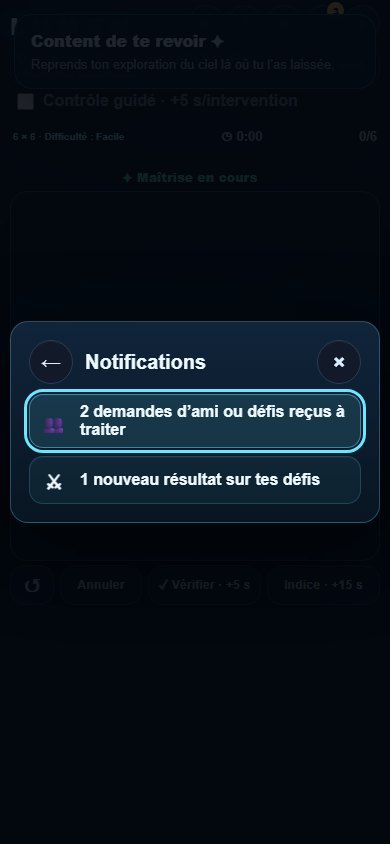
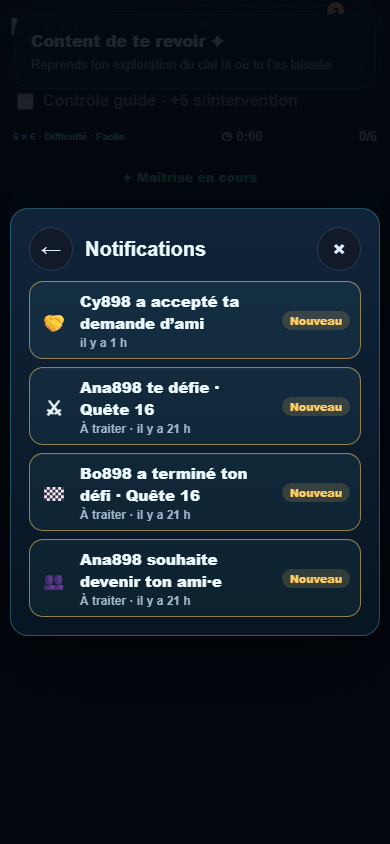
feat(#898): sober in-app social notifications (Lot 4 PR B)
The « Notifications » row of the Espace social now lists, newest first:
friend request received, friend challenge received, result available on my
challenge, friend request accepted. Each opens its screen directly (Mes
amis, the one-shot challenge link, Mes défis focused on the challenge).

- Derived from the existing reads (friend list, friend inbox, Mes défis):
  no migration, no new RPC, no push, no toast, nothing during a grid.
- Read state per account and device (lumenSocialNotificationsV1:<id>):
  « Nouveau » until viewed, « À traiter » while an action is pending; ids of
  vanished items forgotten; acceptances kept 30 days while still friends;
  first observation is a silent baseline.
- Global badge = the validated #35 counters (reused, not recoded) + unseen
  acceptances only: no double count.
- Offline keeps the last list with a notice; `online` and visibility
  refresh it (throttled); account switch never inherits another count.
- Copy in the social.* FR/EN catalogue (i18n-audit reviewed).

Changed region(s): [[0.0, 0.2464, 0.9846, 0.7393]]

diff --git a/index.html b/index.html
@@ -154,7 +154,7 @@
 <div id="challengeNameModal" class="social-overlay" hidden role="dialog" aria-modal="true" aria-labelledby="challengeNameTitle"><div class="social-card"><h2 id="challengeNameTitle">Comment doit-on t’appeler ?</h2><p>Un prénom ou pseudo suffit. Il sera visible dans les résultats du défi.</p><input id="challengeNameInput" maxlength="24" autocomplete="nickname" placeholder="Prénom ou pseudo"><div id="challengeNameError" class="social-error"></div><button id="challengeNameSave" class="primary" type="button">Continuer</button><button id="challengeNameCancel" type="button">Annuler</button></div></div>
 <div id="challengeShareModal" class="social-overlay" hidden role="dialog" aria-modal="true" aria-labelledby="challengeShareTitle"><div class="social-card"><h2 id="challengeShareTitle">Défie un ami</h2><p id="challengeShareCopy"></p><div id="challengeQr" role="img" aria-label="QR code du défi"></div><div class="social-actions"><button id="challengeNativeShare" class="primary" type="button">Partager</button><button id="challengeCopyLink" type="button">Copier le lien</button><button id="challengeSendFriend" type="button" hidden>Envoyer à un ami</button><button id="challengeShareClose" type="button">Fermer</button></div></div></div>
 <div id="challengeResultModal" class="social-overlay" hidden role="dialog" aria-modal="true" aria-labelledby="challengeResultTitle"><div class="social-card"><div class="social-icon">✦</div><h2 id="challengeResultTitle">Défi terminé</h2><div id="challengeResultBody"></div><div class="social-actions"><button id="challengeResultReshare" type="button" hidden>↗ Défier quelqu’un avec ma performance</button><button id="challengeResultHome" class="primary" type="button">Continuer sur Lumen</button></div></div></div>
-<div id="socialHub" class="social-overlay social-hub" hidden role="dialog" aria-modal="true" aria-labelledby="socialHubTitle"><div class="social-card social-card-wide social-hub-card"><div class="social-head"><button id="socialHubBack" class="social-hub-back" type="button" data-game-label="social.back" hidden>←</button><h2 id="socialHubTitle" data-game-text="social.title"></h2><button id="socialHubClose" class="social-hub-close" type="button" data-game-label="social.close">×</button></div><nav id="socialHubMenu" class="social-hub-menu" data-game-label="social.nav"><button id="socialDaily" class="social-hub-item" type="button" hidden><span class="social-hub-icon" aria-hidden="true">🏆</span><span class="social-hub-label"><strong data-game-text="social.daily"></strong><small id="socialDailyState"></small></span></button><button id="openMyChallenges" class="social-hub-item" type="button" data-social-leave><span class="social-hub-icon" aria-hidden="true">⚔</span><span class="social-hub-label"><strong data-game-text="social.myChallenges"></strong><small data-game-text="social.myChallengesHint"></small></span><span id="challengeUnreadBadge" class="social-count" hidden></span></button><button id="socialRankings" class="social-hub-item" type="button"><span class="social-hub-icon" aria-hidden="true">🏅</span><span class="social-hub-label"><strong data-game-text="social.rankings"></strong><small data-game-text="social.rankingsHint"></small></span></button><button id="openFriends" class="social-hub-item" type="button" data-social-leave><span class="social-hub-icon" aria-hidden="true">👥</span><span class="social-hub-label"><strong data-game-text="social.friends"></strong><small data-game-text="social.friendsHint"></small></span><span id="friendsBadge" class="social-count" hidden></span></button><button id="socialNotifications" class="social-hub-item" type="button"><span class="social-hub-icon" aria-hidden="true">🔔</span><span class="social-hub-label"><strong data-game-text="social.notifications"></strong><small data-game-text="social.notificationsHint"></small></span><span id="socialNotificationsCount" class="social-count" hidden></span></button><button id="inviteLumenFriends" class="social-hub-item" type="button"><span class="social-hub-icon" aria-hidden="true">✉</span><span class="social-hub-label"><strong data-game-text="social.invite"></strong><small data-game-text="social.inviteHint"></small></span></button></nav><section id="socialRankingsView" class="social-hub-view" hidden aria-labelledby="socialHubTitle"><div class="social-hub-section"><h3 data-game-text="social.questRankings"></h3><p class="social-note" data-game-text="social.questRankingsCopy"></p><button id="socialOpenSky" type="button" data-game-text="social.openSky"></button></div><div class="social-hub-section"><h3 data-game-text="social.dailyRankings"></h3><p class="social-note" data-game-text="social.dailyRankingsCopy"></p><button id="socialDailyRanking" type="button" data-game-text="social.openDaily" hidden></button><button id="socialDailyWeek" type="button" data-game-text="social.week" hidden></button></div></section><section id="socialNotificationsView" class="social-hub-view" hidden aria-labelledby="socialHubTitle"><div id="socialNotificationsList" class="social-hub-list" role="list"></div><p id="socialNotificationsEmpty" class="social-note" data-game-text="social.empty" hidden></p><p id="socialNotificationsGuest" class="social-note" data-game-text="social.notificationsGuest" hidden></p></section><p id="socialGuestNote" class="social-note social-hub-guest" data-game-text="social.guestNote" hidden></p><button id="socialSignIn" class="social-hub-signin" type="button" data-game-text="social.signIn" hidden></button></div></div><div id="myChallengesModal" class="social-overlay" hidden role="dialog" aria-modal="true" aria-labelledby="myChallengesTitle"><div class="social-card social-card-wide"><div class="social-head"><h2 id="myChallengesTitle">Mes défis</h2><button id="myChallengesClose" type="button">Fermer</button></div><div id="myChallengesList"></div></div></div>
+<div id="socialHub" class="social-overlay social-hub" hidden role="dialog" aria-modal="true" aria-labelledby="socialHubTitle"><div class="social-card social-card-wide social-hub-card"><div class="social-head"><button id="socialHubBack" class="social-hub-back" type="button" data-game-label="social.back" hidden>←</button><h2 id="socialHubTitle" data-game-text="social.title"></h2><button id="socialHubClose" class="social-hub-close" type="button" data-game-label="social.close">×</button></div><nav id="socialHubMenu" class="social-hub-menu" data-game-label="social.nav"><button id="socialDaily" class="social-hub-item" type="button" hidden><span class="social-hub-icon" aria-hidden="true">🏆</span><span class="social-hub-label"><strong data-game-text="social.daily"></strong><small id="socialDailyState"></small></span></button><button id="openMyChallenges" class="social-hub-item" type="button" data-social-leave><span class="social-hub-icon" aria-hidden="true">⚔</span><span class="social-hub-label"><strong data-game-text="social.myChallenges"></strong><small data-game-text="social.myChallengesHint"></small></span><span id="challengeUnreadBadge" class="social-count" hidden></span></button><button id="socialRankings" class="social-hub-item" type="button"><span class="social-hub-icon" aria-hidden="true">🏅</span><span class="social-hub-label"><strong data-game-text="social.rankings"></strong><small data-game-text="social.rankingsHint"></small></span></button><button id="openFriends" class="social-hub-item" type="button" data-social-leave><span class="social-hub-icon" aria-hidden="true">👥</span><span class="social-hub-label"><strong data-game-text="social.friends"></strong><small data-game-text="social.friendsHint"></small></span><span id="friendsBadge" class="social-count" hidden></span></button><button id="socialNotifications" class="social-hub-item" type="button"><span class="social-hub-icon" aria-hidden="true">🔔</span><span class="social-hub-label"><strong data-game-text="social.notifications"></strong><small data-game-text="social.notificationsHint"></small></span><span id="socialNotificationsCount" class="social-count" hidden></span></button><button id="inviteLumenFriends" class="social-hub-item" type="button"><span class="social-hub-icon" aria-hidden="true">✉</span><span class="social-hub-label"><strong data-game-text="social.invite"></strong><small data-game-text="social.inviteHint"></small></span></button></nav><section id="socialRankingsView" class="social-hub-view" hidden aria-labelledby="socialHubTitle"><div class="social-hub-section"><h3 data-game-text="social.questRankings"></h3><p class="social-note" data-game-text="social.questRankingsCopy"></p><button id="socialOpenSky" type="button" data-game-text="social.openSky"></button></div><div class="social-hub-section"><h3 data-game-text="social.dailyRankings"></h3><p class="social-note" data-game-text="social.dailyRankingsCopy"></p><button id="socialDailyRanking" type="button" data-game-text="social.openDaily" hidden></button><button id="socialDailyWeek" type="button" data-game-text="social.week" hidden></button></div></section><section id="socialNotificationsView" class="social-hub-view" hidden aria-labelledby="socialHubTitle"><div id="socialNotificationsList" class="social-hub-list" role="list"></div><p id="socialNotificationsError" class="social-note" role="status" hidden></p><p id="socialNotificationsEmpty" class="social-note" data-game-text="social.empty" hidden></p><p id="socialNotificationsGuest" class="social-note" data-game-text="social.notificationsGuest" hidden></p></section><p id="socialGuestNote" class="social-note social-hub-guest" data-game-text="social.guestNote" hidden></p><button id="socialSignIn" class="social-hub-signin" type="button" data-game-text="social.signIn" hidden></button></div></div><div id="myChallengesModal" class="social-overlay" hidden role="dialog" aria-modal="true" aria-labelledby="myChallengesTitle"><div class="social-card social-card-wide"><div class="social-head"><h2 id="myChallengesTitle">Mes défis</h2><button id="myChallengesClose" type="button">Fermer</button></div><div id="myChallengesList"></div></div></div>
 <div id="friendsModal" class="social-overlay" hidden role="dialog" aria-modal="true" aria-labelledby="friendsTitle"><div class="social-card social-card-wide"><div class="social-head"><h2 id="friendsTitle">Amis et défis</h2><button id="friendsClose" type="button">Fermer</button></div><p id="friendsAccountRequired" class="social-note" hidden>Les amis demandent un compte avec pseudonyme. Les défis par lien restent ouverts à tous, sans compte.</p><div id="friendsBody"><form id="friendAddForm" class="friend-add"><label for="friendNicknameInput">Ajouter un ami avec son pseudonyme exact</label><div class="friend-add-row"><input id="friendNicknameInput" autocomplete="off" maxlength="20" placeholder="Pseudonyme"><button id="friendAddButton" type="submit" class="primary">Ajouter</button></div><p id="friendStatus" class="social-error" role="status"></p></form><h3>Amis</h3><div id="friendsList"></div><h3>Défis reçus</h3><div id="friendChallengesReceived"></div><h3>Défis envoyés à des amis</h3><div id="friendChallengesSent"></div></div><button id="friendsOpenMyChallenges" type="button" class="my-challenges-entry">⚔ Mes défis par lien</button></div></div>
 <div id="dailyIntro" class="social-overlay daily-theme" hidden role="dialog" aria-modal="true" aria-labelledby="dailyIntroTitle"><div class="social-card daily-card-theme"><div class="daily-trophy" aria-hidden="true">🏆</div><h2 id="dailyIntroTitle" data-game-text="daily.title">Défi du jour</h2><p id="dailyIntroDate" class="daily-date"></p><p id="dailyIntroRemaining" class="daily-remaining"></p><ul class="daily-rules"><li><strong data-game-text="daily.ruleOfficial">1 tentative officielle</strong> <span data-game-text="daily.ruleResume">classée, reprise possible sans nouveau chrono</span></li><li data-game-text="daily.ruleGrid">Même grille pour tous, aides et erreurs autorisées (pénalités officielles)</li><li data-game-text="daily.ruleCampaign">Gratuit, sans effet sur ta campagne</li></ul><p id="dailyIntroStatus" class="daily-status" role="status"></p><div class="social-actions"><button id="dailyStart" class="primary" type="button" hidden data-game-text="daily.start">Relever le défi</button><button id="dailyTraining" type="button" hidden data-game-text="daily.training">Jouer en entraînement (non classé)</button><button id="dailyShowResult" type="button" hidden data-game-text="daily.viewResult">Voir mon résultat</button><button id="dailyLeave" type="button" data-game-text="daily.leave">Retour à Lumen</button></div></div></div>
 <div id="dailyResultModal" class="social-overlay daily-theme" hidden role="dialog" aria-modal="true" aria-labelledby="dailyResultTitle"><div class="social-card daily-card-theme"><div class="daily-trophy" aria-hidden="true">🏆</div><h2 id="dailyResultTitle" data-game-text="daily.title">Défi du jour</h2><p id="dailyResultTime" class="daily-result-time"></p><p id="dailyResultNote" class="daily-status" role="status"></p><div id="dailyBoards" class="daily-boards"><div class="daily-tabs" role="tablist" data-game-label="daily.boards" aria-label="Classements du défi du jour"><button id="dailyTabGeneral" role="tab" type="button" aria-selected="true" aria-controls="dailyBoardPanel" data-game-text="daily.general">Général</button><button id="dailyTabFriends" role="tab" type="button" aria-selected="false" aria-controls="dailyBoardPanel" data-game-text="daily.friends">Mes amis</button></div><div id="dailyBoardPanel" class="daily-board-panel" role="tabpanel" aria-live="polite"></div></div><p id="dailyNext" class="daily-next"></p><div class="social-actions"><button id="dailyContinue" class="primary" type="button" data-game-text="daily.continue">Continuer</button><button id="dailyShare" type="button" hidden data-game-text="daily.shareResult">Partager ma performance</button><button id="dailyRetrySubmit" type="button" hidden data-game-text="daily.retry">Réessayer l’envoi</button><button id="dailyTrainAgain" type="button" hidden data-game-text="daily.practiceAgain">S’entraîner (non classé)</button><button id="dailyWeekFromResult" type="button" hidden data-game-text="daily.myWeek">Ma semaine</button></div></div></div>

diff --git a/src/ui/social-notifications.js b/src/ui/social-notifications.js
@@ -1,0 +1,143 @@
+// #898 (EPIC #881 Lot 4, PR B): sober in-app social notifications.
+// Events are DERIVED from the existing server reads of #35/#18 (friend list,
+// friend inbox, "Mes défis"); nothing new is stored on the server and no push
+// is sent. The only local state, per account and per device, is the read state
+// and the list of outgoing friend requests (to notice an acceptance).
+// Counting rule (no double count): requests, received challenges and unread
+// results are already counted by the validated #35 counters; this module only
+// adds the acceptances not yet seen.
+
+export const SOCIAL_NOTIFICATIONS_KEY='lumenSocialNotificationsV1';
+export const ACCEPTED_TTL_MS=30*24*3600*1000;
+const norm=value=>String(value??'').trim().toLowerCase();
+
+export function emptyNotificationState(){return {version:1,baseline:false,outgoing:[],accepted:[],seen:[]}}
+
+export function readNotificationState(storage,owner){
+ if(!owner)return emptyNotificationState();
+ try{
+  const raw=JSON.parse(storage?.getItem(SOCIAL_NOTIFICATIONS_KEY+':'+owner)||'null');
+  if(!raw||raw.version!==1)return emptyNotificationState();
+  const list=(value,check)=>Array.isArray(value)?value.filter(check):[];
+  return {version:1,baseline:raw.baseline===true,
+   outgoing:list(raw.outgoing,x=>typeof x==='string').slice(0,500),
+   accepted:list(raw.accepted,x=>x&&typeof x.nickname==='string'&&Number.isFinite(x.at)).slice(0,100),
+   seen:list(raw.seen,x=>typeof x==='string').slice(0,500)};
+ }catch{return emptyNotificationState()}
+}
+export function writeNotificationState(storage,owner,state){
+ if(!owner)return;
+ try{storage?.setItem(SOCIAL_NOTIFICATIONS_KEY+':'+owner,JSON.stringify(state))}catch{}
+}
+
+// Pure: next local state from the current friend list. The first observation is
+// a silent baseline (no flood of old acceptances after an update or a new device).
+export function trackFriendships(state,friends=[],now=Date.now()){
+ const byName=new Map(friends.map(f=>[norm(f.nickname),f]));
+ const accepted=state.baseline?state.outgoing
+  .filter(name=>byName.get(name)?.state==='friends')
+  .map(name=>({nickname:byName.get(name).nickname,at:Date.parse(byName.get(name).since)||now})):[];
+ const kept=[...state.accepted,...accepted]
+  .filter(a=>byName.get(norm(a.nickname))?.state==='friends'&&now-a.at<ACCEPTED_TTL_MS);
+ const unique=[...new Map(kept.map(a=>[norm(a.nickname),a])).values()];
+ return {...state,baseline:true,
+  outgoing:friends.filter(f=>f.state==='outgoing').map(f=>norm(f.nickname)),
+  accepted:unique};
+}
+
+// Pure: the notification list, newest first, deduplicated by id.
+export function deriveSocialEvents({friends=[],received=[],sent=[],accepted=[],questLabel=row=>'',t=key=>key,now=Date.now()}={}){
+ const events=[];
+ for(const f of friends)if(f?.state==='incoming')events.push({
+  id:'friend-request:'+norm(f.nickname)+':'+(f.since||''),kind:'friend-request',actionable:true,at:Date.parse(f.since)||0,
+  text:t('social.event.friendRequest',{name:f.nickname}),target:{type:'friends'}});
+ for(const r of received)if(r?.challenge_id&&(r.status||'pending')==='pending')events.push({
+  id:'challenge-received:'+r.challenge_id,kind:'challenge-received',actionable:true,at:Date.parse(r.created_at)||0,
+  text:t('social.event.challengeReceived',{name:r.sender||t('social.event.someone')})+(questLabel(r)?' · '+questLabel(r):''),target:{type:'challenge',id:r.challenge_id}});
+ for(const s of sent){
+  const unread=Number(s?.unread_count)||0;
+  if(!s?.challenge_id||unread<=0)continue;
+  const done=(Array.isArray(s.participants)?s.participants:[]).filter(p=>['completed','abandoned'].includes(p?.status));
+  const who=done.length===1&&done[0].display_name?t('social.event.resultBy',{name:done[0].display_name}):t('social.event.results',{count:unread});
+  events.push({id:'challenge-result:'+s.challenge_id+':'+unread,kind:'challenge-result',actionable:true,
+   at:Math.max(0,...done.map(p=>Date.parse(p.finished_at||p.updated_at)||0),Date.parse(s.created_at)||0),
+   text:who+(questLabel(s)?' · '+questLabel(s):''),target:{type:'my-challenges',id:s.challenge_id}});
+ }
+ for(const a of accepted)if(now-a.at<ACCEPTED_TTL_MS)events.push({
+  id:'friend-accepted:'+norm(a.nickname)+':'+a.at,kind:'friend-accepted',actionable:false,at:a.at,
+  text:t('social.event.accepted',{name:a.nickname}),target:{type:'friends'}});
+ return [...new Map(events.map(e=>[e.id,e])).values()].sort((x,y)=>y.at-x.at||x.id.localeCompare(y.id));
+}
+
+// Extra badge units: acceptances not seen yet (everything else is #35's).
+export function unseenAcceptedCount(events,seen=[]){
+ const read=new Set(seen);
+ return events.filter(e=>e.kind==='friend-accepted'&&!read.has(e.id)).length;
+}
+// Mark the given events read; forget ids that no longer exist (bounded store).
+export function markSeen(state,events,ids=events.map(e=>e.id)){
+ const live=new Set(events.map(e=>e.id));
+ return {...state,seen:[...new Set([...state.seen.filter(id=>live.has(id)),...ids])].slice(-500)};
+}
+
+export function relativeTime(at,now=Date.now(),t=key=>key){
+ if(!at)return '';
+ const minutes=Math.max(0,Math.floor((now-at)/60000));
+ if(minutes<1)return t('social.time.now');
+ if(minutes<60)return t('social.time.minutes',{count:minutes});
+ const hours=Math.round(minutes/60);if(hours<24)return t('social.time.hours',{count:hours});
+ const days=Math.round(hours/24);return days<=1?t('social.time.yesterday'):t('social.time.days',{count:days});
+}
+
+// Screen controller: fetches through the existing clients, renders the panel
+// list, keeps the read state and refreshes on reconnection. Never shows a toast.
+export function createSocialNotifications({doc=globalThis.document,t=key=>key,storage=globalThis.localStorage,getOwner=()=>null,
+ fetchFriends,fetchInbox,fetchSent,questLabel=()=>'',open=()=>{},onChange=()=>{},now=()=>Date.now(),minInterval=30000}={}){
+ let events=[],status='idle',lastFetch=0,pending=null,owner=null,highlight=new Set();
+ const state=()=>readNotificationState(storage,owner);
+ async function refresh({force=false}={}){
+  owner=getOwner();
+  if(!owner){events=[];highlight=new Set();status='guest';onChange();return events}
+  if(pending)return pending;
+  if(!force&&now()-lastFetch<minInterval)return events;
+  pending=(async()=>{
+   try{
+    const [friends,inbox,sent]=await Promise.all([fetchFriends(),fetchInbox(),fetchSent()]);
+    if(getOwner()!==owner)return events;
+    const next=trackFriendships(state(),friends||[],now());
+    events=deriveSocialEvents({friends:friends||[],received:inbox?.received||[],sent:sent||[],accepted:next.accepted,questLabel,t,now:now()});
+    writeNotificationState(storage,owner,markSeen(next,events,[]));
+    status='ready';lastFetch=now();
+   }catch{status=events.length?'stale':'error'}
+   finally{pending=null;onChange()}
+   return events;
+  })();
+  return pending;
+ }
+ function extraCount(){return owner&&owner===getOwner()?unseenAcceptedCount(events,state().seen):0}
+ function render(list,{empty,error}={}){
+  if(!list)return;
+  const read=new Set(state().seen),stamp=now();
+  list.replaceChildren(...events.map(event=>{
+   const b=doc.createElement('button');b.type='button';b.classList.add('social-hub-item','social-notification');
+   b.dataset.notificationId=event.id;b.dataset.kind=event.kind;b.setAttribute('role','listitem');
+   const fresh=!read.has(event.id)||highlight.has(event.id);if(fresh)b.classList.add('unread');
+   const icon=doc.createElement('span');icon.className='social-hub-icon';icon.setAttribute('aria-hidden','true');
+   icon.textContent={'friend-request':'👥','challenge-received':'⚔','challenge-result':'🏁','friend-accepted':'🤝'}[event.kind]||'✦';
+   const label=doc.createElement('span');label.className='social-hub-label';
+   const strong=doc.createElement('strong');strong.textContent=event.text;
+   const small=doc.createElement('small');small.textContent=[event.actionable?t('social.toDo'):null,relativeTime(event.at,stamp,t)].filter(Boolean).join(' · ');
+   label.append(strong,small);b.append(icon,label);
+   if(fresh){const chip=doc.createElement('span');chip.className='social-new';chip.textContent=t('social.new');b.append(chip)}
+   b.addEventListener('click',()=>open(event));
+   return b;
+  }));
+  if(empty)empty.hidden=!!events.length||status==='guest'||status==='error';
+  if(error){error.hidden=!(status==='error'||status==='stale');error.textContent=t(status==='stale'?'social.stale':'social.error')}
+ }
+ // Opening the list reads it; opening « Mes amis » reads acceptances too.
+ // Unread items stay highlighted during the current viewing, then read.
+ function markAllSeen(){if(!owner)return;const read=new Set(state().seen);highlight=new Set(events.filter(e=>!read.has(e.id)).map(e=>e.id));writeNotificationState(storage,owner,markSeen(state(),events));onChange()}
+ function markKindSeen(kind){if(!owner)return;writeNotificationState(storage,owner,markSeen(state(),events,events.filter(e=>e.kind===kind).map(e=>e.id)));onChange()}
+ return {refresh,extraCount,render,markAllSeen,markKindSeen,events:()=>events,status:()=>status};
+}

diff --git a/src/ui/social-hub.js b/src/ui/social-hub.js
@@ -19,7 +19,7 @@ export function socialBadgeText(total){
  return n?n>99?'99+':String(n):'';
 }
 
-export function setupSocialHub({doc=document,t=key=>key,isSignedIn=()=>false,extraCount=()=>0,onOpen=()=>{},onSignIn=null}={}){
+export function setupSocialHub({doc=document,t=key=>key,isSignedIn=()=>false,extraCount=()=>0,onOpen=()=>{},onSignIn=null,notifications=null}={}){
  const $=id=>doc.getElementById(id);
  const trigger=$('openSocial'),hub=$('socialHub');
  if(!trigger||!hub)return null;
@@ -28,7 +28,7 @@ export function setupSocialHub({doc=document,t=key=>key,isSignedIn=()=>false,ext
  const counters=[$('friendsBadge'),$('challengeUnreadBadge')];
  let returnFocus=null;
 
- function total(){return counters.reduce((sum,el)=>sum+badgeCount(el),0)+Math.max(0,Number(extraCount())||0)}
+ function total(){return counters.reduce((sum,el)=>sum+badgeCount(el),0)+Math.max(0,Number(notifications?notifications.extraCount():extraCount())||0)}
  function refreshBadge(){
   const n=total(),text=socialBadgeText(n);
   if(badge){badge.hidden=!n;badge.textContent=text}
@@ -52,6 +52,9 @@ export function setupSocialHub({doc=document,t=key=>key,isSignedIn=()=>false,ext
  }
  function renderNotifications(){
   const list=$('socialNotificationsList');if(!list)return;
+  // PR B: the derived feed (#898) when available; counters summary otherwise.
+  if(notifications&&isSignedIn()){notifications.render(list,{empty:$('socialNotificationsEmpty'),error:$('socialNotificationsError')});return}
+  const error=$('socialNotificationsError');if(error)error.hidden=true;
   const friends=badgeCount(counters[0]),results=badgeCount(counters[1]);
   const rows=[];
   if(friends)rows.push({target:'openFriends',icon:'👥',text:t('social.summaryFriends',{count:friends})});
@@ -66,7 +69,10 @@ export function setupSocialHub({doc=document,t=key=>key,isSignedIn=()=>false,ext
  }
  function show(name){
   for(const [key,view] of Object.entries(views))if(view)view.hidden=key!==name;
-  if(name==='notifications')renderNotifications();
+  if(name==='notifications'){
+   renderNotifications();
+   if(notifications&&isSignedIn()){notifications.markAllSeen();void notifications.refresh({force:true}).then(()=>{if(!views.notifications.hidden)renderNotifications()})}
+  }
   const back=$('socialHubBack');if(back)back.hidden=name==='menu';
   const title=$('socialHubTitle');if(title)title.textContent=t(name==='rankings'?'social.rankings':name==='notifications'?'social.notifications':'social.title');
   const first=(views[name]||menu)?.querySelector('button:not([hidden])');
@@ -78,6 +84,7 @@ export function setupSocialHub({doc=document,t=key=>key,isSignedIn=()=>false,ext
   refreshDaily();refreshAccount();refreshBadge();
   hub.hidden=false;trigger.setAttribute('aria-expanded','true');
   show('menu');onOpen();
+  if(notifications&&isSignedIn())void notifications.refresh().then(refreshBadge);
  }
  function hide({restore=true}={}){
   if(hub.hidden)return;
@@ -102,6 +109,7 @@ export function setupSocialHub({doc=document,t=key=>key,isSignedIn=()=>false,ext
  // their original handlers; the panel only steps aside afterwards.
  menu?.addEventListener('click',event=>{if(event.target.closest('[data-social-leave]'))hide({restore:false})});
  views.notifications?.addEventListener('click',event=>{
+  if(event.target.closest('.social-notification')){hide({restore:false});return}
   const row=event.target.closest('[data-social-target]');if(!row)return;
   hide({restore:false});$(row.dataset.socialTarget)?.click();
  });

diff --git a/src/ui/game-screen.js b/src/ui/game-screen.js
@@ -23,6 +23,7 @@ import {summarizeWeek,weekMonday,weekNavigation} from '../campaign/daily-week.js
 import {officialTimingSupported,refreshOfficialTimingSupport} from '../persistence/official-time.js';
 import {createRankingClient} from '../persistence/ranking.js';
 import {setupSocialHub} from './social-hub.js';
+import {createSocialNotifications} from './social-notifications.js';
 import {createRankingView} from './ranking.js';
 import {createVictoryPresentation} from './victory-presentation.js';
 import {createCelebration,rewardSlots,remarkableRewards,rankSummary,celebrationLevel} from './victory-celebration.js';
@@ -5781,7 +5782,17 @@ const nativeChallengeShare=document.getElementById("challengeNativeShare"),copyC
 const openChallenges=document.getElementById("openMyChallenges"),closeChallenges=document.getElementById("myChallengesClose");if(openChallenges)openChallenges.onclick=()=>openMyChallenges();if(closeChallenges)closeChallenges.onclick=()=>document.getElementById("myChallengesModal").hidden=true;
 setupFriends();
 // #898 Lot 4: single social entry point over the existing screens and counters.
-const socialHub=setupSocialHub({t,isSignedIn:()=>!!lumenUser,onSignIn:()=>openEmailAccountOffer("signup"),onOpen:()=>{void refreshFriendsBadge();void loadMyChallenges()}});
+// #898 PR B: in-app notifications derived from the same reads (no push, no new server state).
+let socialHub=null;
+const socialNotifications=createSocialNotifications({t,getOwner:()=>lumenUser?.id||null,
+ fetchFriends:()=>friendsClient.list(),fetchInbox:()=>friendsClient.inbox(),fetchSent:()=>challengeClient.sent(),
+ questLabel:row=>challengeQuestLabel(row),onChange:()=>socialHub?.refresh(),
+ open:event=>{if(event.target.type==='challenge')location.href=socialChallengeUrl(event.target.id);else if(event.target.type==='my-challenges')openMyChallenges(event.target.id);else document.getElementById("openFriends")?.click()}});
+socialHub=setupSocialHub({t,isSignedIn:()=>!!lumenUser,onSignIn:()=>openEmailAccountOffer("signup"),notifications:socialNotifications,onOpen:()=>{void refreshFriendsBadge();void loadMyChallenges()}});
+document.getElementById("openFriends")?.addEventListener("click",()=>socialNotifications.markKindSeen("friend-accepted"));
+window.addEventListener("online",()=>{void socialNotifications.refresh({force:true})});
+document.addEventListener("visibilitychange",()=>{if(!document.hidden)void socialNotifications.refresh()});
+void socialNotifications.refresh();
 const challengeHome=document.getElementById("challengeResultHome"),challengeReshare=document.getElementById("challengeResultReshare");if(challengeHome)challengeHome.onclick=()=>{location.href=location.pathname};if(challengeReshare)challengeReshare.onclick=()=>{document.getElementById("challengeResultModal").hidden=true;createSocialChallengeFromSuccess()};
 const pushEnable=document.getElementById("pushEnable"),pushLater=document.getElementById("pushLater");
 if(pushEnable)pushEnable.onclick=enableLumenPush;

diff --git a/src/ui/locales/fr/social.js b/src/ui/locales/fr/social.js
@@ -30,4 +30,19 @@ export default Object.freeze({
   'social.signIn': "Créer un compte ou me connecter",
   'social.summaryFriends': {"one":"{count} demande d’ami ou défi reçu à traiter","other":"{count} demandes d’ami ou défis reçus à traiter"},
   'social.summaryResults': {"one":"{count} nouveau résultat sur tes défis","other":"{count} nouveaux résultats sur tes défis"},
+  'social.event.friendRequest': "{name} souhaite devenir ton ami·e",
+  'social.event.challengeReceived': "{name} te défie",
+  'social.event.someone': "Un ami",
+  'social.event.resultBy': "{name} a terminé ton défi",
+  'social.event.results': {"one":"{count} nouveau résultat sur ton défi","other":"{count} nouveaux résultats sur ton défi"},
+  'social.event.accepted': "{name} a accepté ta demande d’ami",
+  'social.toDo': "À traiter",
+  'social.new': "Nouveau",
+  'social.time.now': "à l’instant",
+  'social.time.minutes': "il y a {count} min",
+  'social.time.hours': "il y a {count} h",
+  'social.time.yesterday': "hier",
+  'social.time.days': "il y a {count} j",
+  'social.stale': "Connexion interrompue : affichage des dernières nouveautés connues.",
+  'social.error': "Notifications indisponibles pour le moment. Réessaie une fois connecté·e.",
 });

diff --git a/src/ui/locales/en/social.js b/src/ui/locales/en/social.js
@@ -30,4 +30,19 @@ export default Object.freeze({
   'social.signIn': "Create an account or sign in",
   'social.summaryFriends': {"one":"{count} friend request or challenge to handle","other":"{count} friend requests or challenges to handle"},
   'social.summaryResults': {"one":"{count} new result on your challenges","other":"{count} new results on your challenges"},
+  'social.event.friendRequest': "{name} wants to be your friend",
+  'social.event.challengeReceived': "{name} challenges you",
+  'social.event.someone': "A friend",
+  'social.event.resultBy': "{name} finished your challenge",
+  'social.event.results': {"one":"{count} new result on your challenge","other":"{count} new results on your challenge"},
+  'social.event.accepted': "{name} accepted your friend request",
+  'social.toDo': "To do",
+  'social.new': "New",
+  'social.time.now': "just now",
+  'social.time.minutes': "{count} min ago",
+  'social.time.hours': "{count} h ago",
+  'social.time.yesterday': "yesterday",
+  'social.time.days': "{count} days ago",
+  'social.stale': "Connection lost: showing the latest known updates.",
+  'social.error': "Notifications are unavailable for now. Try again once you are online.",
 });

diff --git a/src/ui/styles.css b/src/ui/styles.css
@@ -1562,3 +1562,5 @@ html body .game-core .actions>#new.action-reset:hover,html body .game-core .acti
 .social-hub-signin[hidden]{display:none}
 @media(max-width:520px){.social-hub .social-card{max-height:calc(100dvh - 20px - env(safe-area-inset-top) - env(safe-area-inset-bottom))}.social-hub-item{min-height:48px;padding:8px 10px}}
 @media(prefers-reduced-motion:reduce){.social-hub *{transition:none!important;animation:none!important}}
+.social-notification.unread{border-color:rgba(255,204,99,.55)}
+.social-new{flex:0 0 auto;padding:2px 8px;border-radius:10px;background:rgba(255,204,99,.16);color:#ffcc63;font-size:11px;font-weight:800}

diff --git a/docs/architecture/test-map.md b/docs/architecture/test-map.md
@@ -412,7 +412,7 @@ Phase 2: `npm run test:affected` / `node scripts/test-affected.mjs` selects the 
 | Auth / sessions (`src/persistence/cloud.js`, UI) | `account-email-login-tests.mjs`, `account-session-modes-tests.mjs`, `cloud-client-session-tests.mjs`, `cloud-session-guard-tests.mjs`, `oauth-return.test.mjs`, `persistence-tests.mjs` | Google/password/guest/recovery contracts, startup/event ordering and session guards; isolated simulations/source assertions |
 | Auth mail (`src/auth/`, dedicated mail functions) | `auth-mail-otp-tests.mjs`, `auth-email-brand-routing-tests.mjs`, `auth-email-delivery-plan-tests.mjs`, `auth-email-hook-integration-tests.mjs`, `auth-email-ledger-contract-tests.mjs` | Historical filename `auth-mail-otp-tests.mjs` now includes rejection of retired OTP/magic-link login; recovery/confirmation and routing remain relevant |
 | Daily challenge (#882) | `daily-challenge-tests.mjs`, `daily-view-tests.mjs`, `daily-week-tests.mjs`, `daily-challenge-browser.mjs` (via canonical replay browser suite), `daily-schedule.mjs --check`, SQL `fixtures/daily-challenge-882.sql`, `daily-concurrency.py`, `fixtures/daily-rollback-882.sql` (canonical-ledger CI) | Paris day/DST, pinned grid, one official attempt, both rankings from one row, frozen weekly ranks, English/French presentation and share, erasure |
-| Espace social (#898) | `social-hub-tests.mjs` (badge sum, ids kept once, order), `social-hub-browser.mjs` in the canonical replay suite (guest 360×640, signed-in 390/1440, keyboard, focus trap, Escape, counters, rankings split, daily route, captures) | Full gate |
+| Espace social (#898) | `social-hub-tests.mjs` (badge sum, ids kept once, order), `social-notifications-tests.mjs` (derivation, read state, baseline, expiry, offline), `social-hub-browser.mjs` in the canonical replay suite (guest 360×640, signed-in 390/1440, keyboard, focus trap, Escape, counters, rankings split, daily route, captures) | Full gate |
 | Social challenges (social/canonical challenge modules, UI, attempts) | `social-challenge-tests.mjs`, `social-challenge-ui-tests.mjs`, `issue-222-challenge-tests.mjs`, `challenge-rpc-contract-tests.mjs` (#883 RPC routing vs migrations), `challenge-recipient-browser.mjs` and `friends-browser.mjs` (via canonical replay browser suite), `social-friends-tests.mjs` (#35), SQL `fixtures/friends-direct-challenges-35.sql` and its rollback rehearsal `fixtures/friends-rollback-35.sql`, SQL `fixtures/challenge-rpc-matrix.sql` and `fixtures/challenge-qualifying-889.sql` (#889 qualifying-run writer, #888 resume facts; canonical-ledger CI) | First-play eligibility, quest identity, terminal comparison and campaign isolation |
 | Progression/daily (campaign modules, daily hydration) | `campaign-tests.mjs`, `late-game-tests.mjs`, `generated-progression.test.mjs`, `generated-rewards.test.mjs`, `daily-engagement-tests.mjs`, `daily-hydration-tests.mjs` | Legacy compatibility, catalogue boundaries, generated rewards and daily projection |
 | Grids / astronomy | `audit-catalogue.mjs`, `difficulty-audit.mjs`, `validate-playable-astronomy-tests.mjs`, `astronomical-projection-tests.mjs`, `astronomical-catalogue-tests.mjs`, `content-architecture-tests.mjs` | Strict grid validity/uniqueness/proof replay; reference geometry/content contracts. See `docs/GRID_CATALOG.md` for full audits |

diff --git a/docs/architecture/feature-map.md b/docs/architecture/feature-map.md
@@ -379,7 +379,7 @@ content size plus CSS square-board budgets in `styles.css`.
 | Catalogue/rewards | `src/campaign/data.js`, `src/campaign/catalogue.js`, `src/campaign/playable-quests.js`, `src/campaign/generated-rewards.js`, `src/campaign/generated-progression.js`; `content/generated/first-adventure.json`, `content/generated/issue-222-additions.json`, `content/generated/diverse-adventures-3-4.json` | Legacy schedule/audited grids plus generated manifests; `canonical-quests.js` composes stable identities. No fixed total replaces these relationships |
 | Social challenges | `src/campaign/social-challenge.js`: `challengeEligibility`, `challengeSnapshot`, `createChallengeClient`; `src/campaign/canonical-challenges.js`: `resolveChallengeQuest`; UI: `bootstrapSocialChallenge`, `finishSocialChallenge` | `?challenge=` → RPCs → isolated challenge attempt; any qualifying run (#889), no campaign grants |
 | Daily challenge (#882) | `src/campaign/daily-challenge.js`, `src/ui/daily-view.js` for localized rendering and shares, `scripts/daily-schedule.mjs`, `content/generated/daily-schedule.json`; SQL `20261122090000_daily_challenge_882.sql` (`lumen_daily_*`) | Server day → pinned grid → one official run → general/friends boards → weekly summary ([contract](../DAILY_CHALLENGE.md)) |
-| Espace social (#898) | `src/ui/social-hub.js` (`setupSocialHub`, `badgeCount`); markup `#openSocial`/`#socialHub` in `index.html`; wired after `setupFriends()` in `game-screen.js` | Header icon → panel → existing screens (#35 friends, #18 Mes défis, #779 invite, #882 daily, #638 rankings); global badge = sum of #35 counters ([UX](../UX_AND_VISUAL_DIRECTION.md#social-challenge-ux)) |
+| Espace social (#898) | `src/ui/social-hub.js` (`setupSocialHub`, `badgeCount`); markup `#openSocial`/`#socialHub` in `index.html`; wired after `setupFriends()` in `game-screen.js` | Header icon → panel → existing screens (#35 friends, #18 Mes défis, #779 invite, #882 daily, #638 rankings); global badge = sum of #35 counters + unseen acceptances; notifications feed in `src/ui/social-notifications.js` (derived, local read state) ([UX](../UX_AND_VISUAL_DIRECTION.md#social-challenge-ux)) |
 | Friends and direct challenges (#35) | `src/campaign/social-friends.js`: `createFriendsClient`, renderers; UI: `setupFriends`, `openFriendPicker` in `game-screen.js`; SQL `20261121100000_friends_direct_challenges_35.sql` | « Amis et défis » → friend RPCs (nickname only) → existing challenge link |
 | Daily engagement | `src/campaign/daily-engagement.js`: `grantDaily`, `grantAutonomyMilestone`; `src/persistence/daily-hydration.js`: `reconcileDailyIntoCloudProfile`; `src/persistence/cloud.js`: `cloudMergeDaily`, `cloudSaveDaily` | Daily/engagement reads and profile hydration; independent of social challenge rewards |
 | Rules/attempts/learning | `src/game/engine.js`: `createGameEngine`; `src/game/attempt-engine.js`: `createAttemptEngine`; `src/game/learning.js`; `src/ui/tutorial.js` | Live board → rules/proofs → attempt evidence. Campaign reset/replay differs from one-shot social attempts |

diff --git a/docs/TESTING.md b/docs/TESTING.md
@@ -1898,7 +1898,7 @@ Any change to challenge behavior must additionally verify:
 - a finished link reopens on its result (lowercase server status), never on a second attempt;
 - “Mes défis” shows canonical visible quest numbers for historical, stable and revised challenges.
 
-#898 (Lot 4, PR A): `social-hub-tests.mjs` checks the global badge sum, that each moved entry/counter id exists once inside the panel and the section order; `social-hub-browser.mjs` (canonical replay suite) covers the guest at 360×640, signed-in 390/1440, keyboard opening, focus trap, Escape with focus restoration, #35 counters feeding the badge, the rankings split, the daily route and writes `docs/validation/social-hub-*.png` when `LUMEN_SOCIAL_CAPTURES` is set. `credits-browser-tests.mjs` opens the panel before focusing the invitation.
+#898 (Lot 4, PR A): `social-hub-tests.mjs` checks the global badge sum, that each moved entry/counter id exists once inside the panel and the section order; `social-hub-browser.mjs` (canonical replay suite) covers the guest at 360×640, signed-in 390/1440, keyboard opening, focus trap, Escape with focus restoration, #35 counters feeding the badge, the rankings split, the daily route and writes `docs/validation/social-hub-*.png` when `LUMEN_SOCIAL_CAPTURES` is set. `credits-browser-tests.mjs` opens the panel before focusing the invitation. PR B: `social-notifications-tests.mjs` covers storage per account and corruption, silent baseline, acceptance detection, 30-day expiry, removed friend, deduplication, ordering, read state, extra badge units, French/English copy, guest, throttling, offline (last list kept) and account switch; `social-hub-browser.mjs` checks the feed (4 events, « Nouveau », nicknames only), reading on viewing (badge 4 → 3), opening Mes défis (badge → 2), no ghost after reading, offline notice, `online` refresh and the received challenge link.
 
 #882 (Lot 3, PR A): see [DAILY_CHALLENGE.md §7](DAILY_CHALLENGE.md#7-tests-et-retour-arrière) — `daily-challenge-tests.mjs`, `fixtures/daily-challenge-882.sql`, `daily-concurrency.py` and the rollback rehearsal run in canonical-ledger CI. `fixtures/supabase-default-anon-grants.sql` reproduces Supabase's default `anon` grants before `20261122100000_daily_anon_revoke_882.sql`; `fixtures/daily-anon-revoke-882.sql` then asserts only `lumen_daily_today` stays guest-callable (also covers #889 `lumen_create_qualifying_challenge`).
 

diff --git a/docs/DATA_AND_ARCHITECTURE.md b/docs/DATA_AND_ARCHITECTURE.md
@@ -1957,7 +1957,16 @@ from « Mes défis ». No push or in-app notification beyond a small counter of
 pending requests and received challenges on the entry button. Since #898 the
 entry buttons (`#openFriends`, `#openMyChallenges`, `#inviteLumenFriends`) and
 their counters live in the Espace social panel (`src/ui/social-hub.js`), keeping
-their ids so the #35 code binds them unchanged.
+their ids so the #35 code binds them unchanged. In-app notifications
+(`src/ui/social-notifications.js`, PR B) are derived from the same reads
+(`lumen_friend_list`, `lumen_challenge_inbox`, `lumen_list_quest_challenges_v2`);
+no table, RPC or migration is added and nothing is pushed. The only state is
+local, per account and device: `localStorage['lumenSocialNotificationsV1:<user id>']`
+= `{version, baseline, outgoing[], accepted[], seen[]}` (lower-case nicknames of
+pending outgoing requests to notice an acceptance, acceptances kept 30 days
+while the friendship exists, ids already read; bounded, ids of vanished items
+forgotten). The first observation on a device is a silent baseline (no flood of
+old acceptances). Guests store nothing.
 
 ### Security-advisor note
 Supabase reports the two social tables as `rls_enabled_no_policy` and the anonymous social RPCs as callable SECURITY DEFINER functions. For #18 this is intentional: guests are a product requirement, direct table access is denied by RLS, and the narrow RPCs enforce the ownership/one-attempt contract. These warnings are not a claim that the whole project is security-clean; unrelated existing advisor warnings remain and must be reviewed separately.

diff --git a/docs/UX_AND_VISUAL_DIRECTION.md b/docs/UX_AND_VISUAL_DIRECTION.md
@@ -374,6 +374,16 @@ friends and notifications need an account. Copy lives in the `social.*` domain
 (`src/ui/locales/{fr,en}/social.js`, reviewed by `i18n-audit.mjs`). Captures:
 `docs/validation/social-hub-*.png`.
 
+**Notifications (#898 PR B).** In-app only, no push, no toast, never during a
+grid: the « Notifications » row lists, newest first, a friend request received,
+a friend challenge received, a result available on one of my challenges and a
+friend request accepted. Each row opens its screen directly (Mes amis, the
+challenge link, or Mes défis focused on that challenge). Rows carry « Nouveau »
+until viewed (kept highlighted during that viewing) and « À traiter » while an
+action is pending. The global badge stays the #35 counters plus only the
+acceptances not seen yet, so nothing is counted twice. Offline, the last known
+list stays visible with a short notice; reconnection refreshes it.
+
 « Amis et défis » (#35, row « Mes amis » of the panel) stays an optional screen,
 never on the game screen and never inside a grid. Guests see why friends need an account and
 keep playing link challenges. Friends are added by exact nickname; « Envoyer à un
